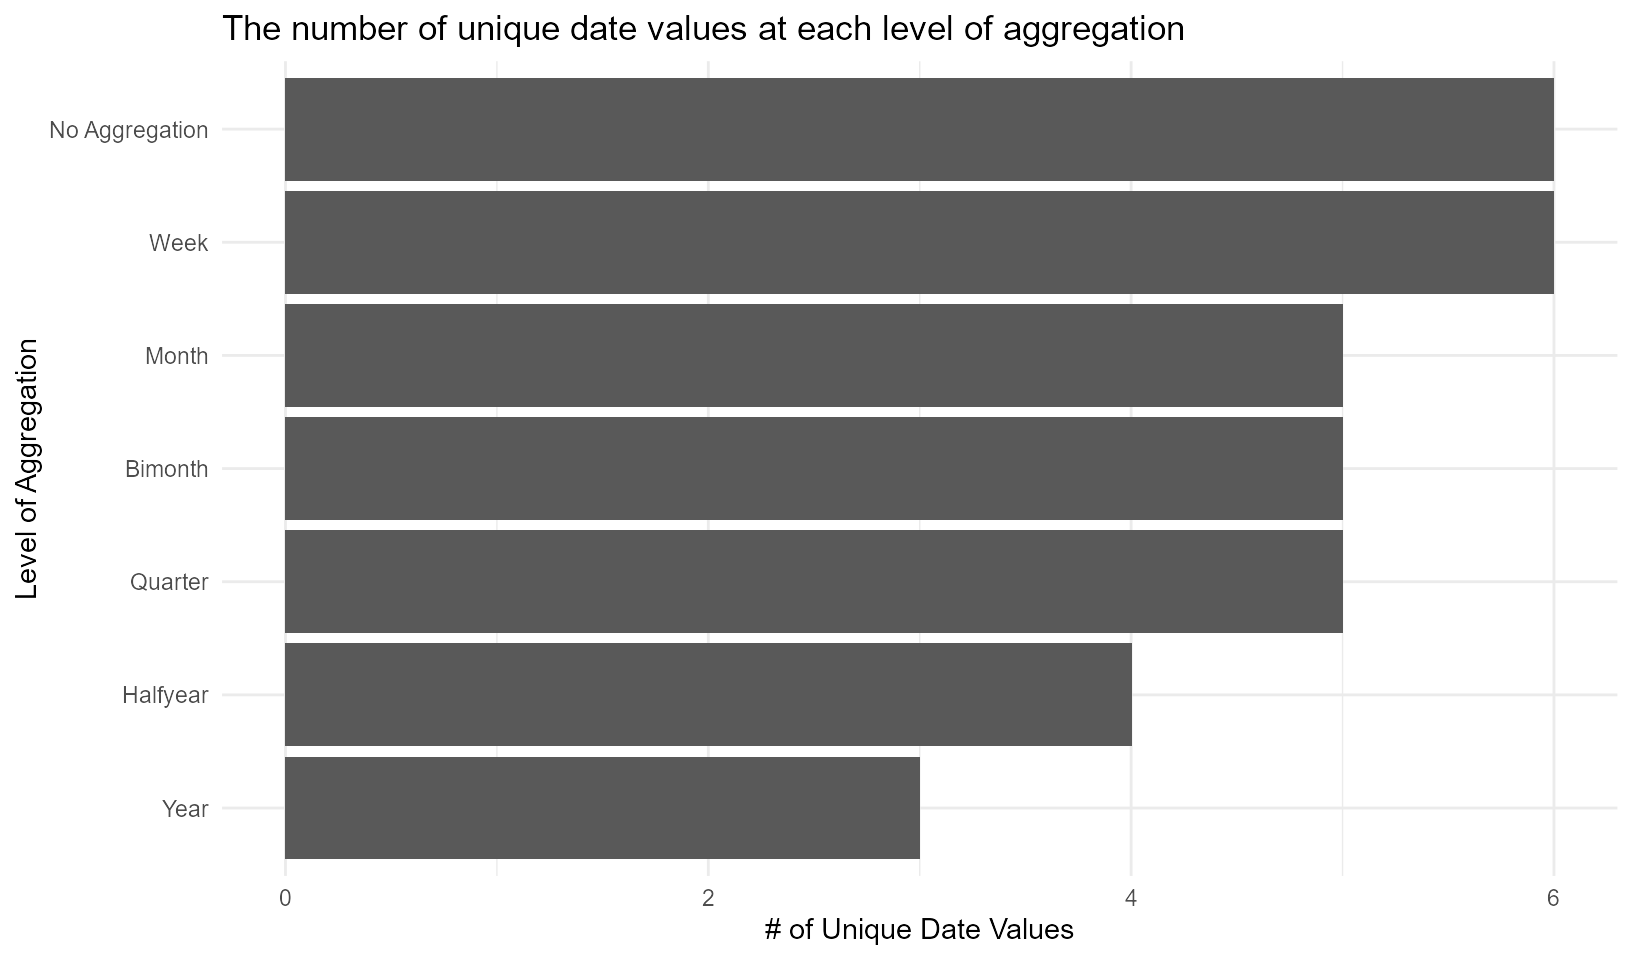
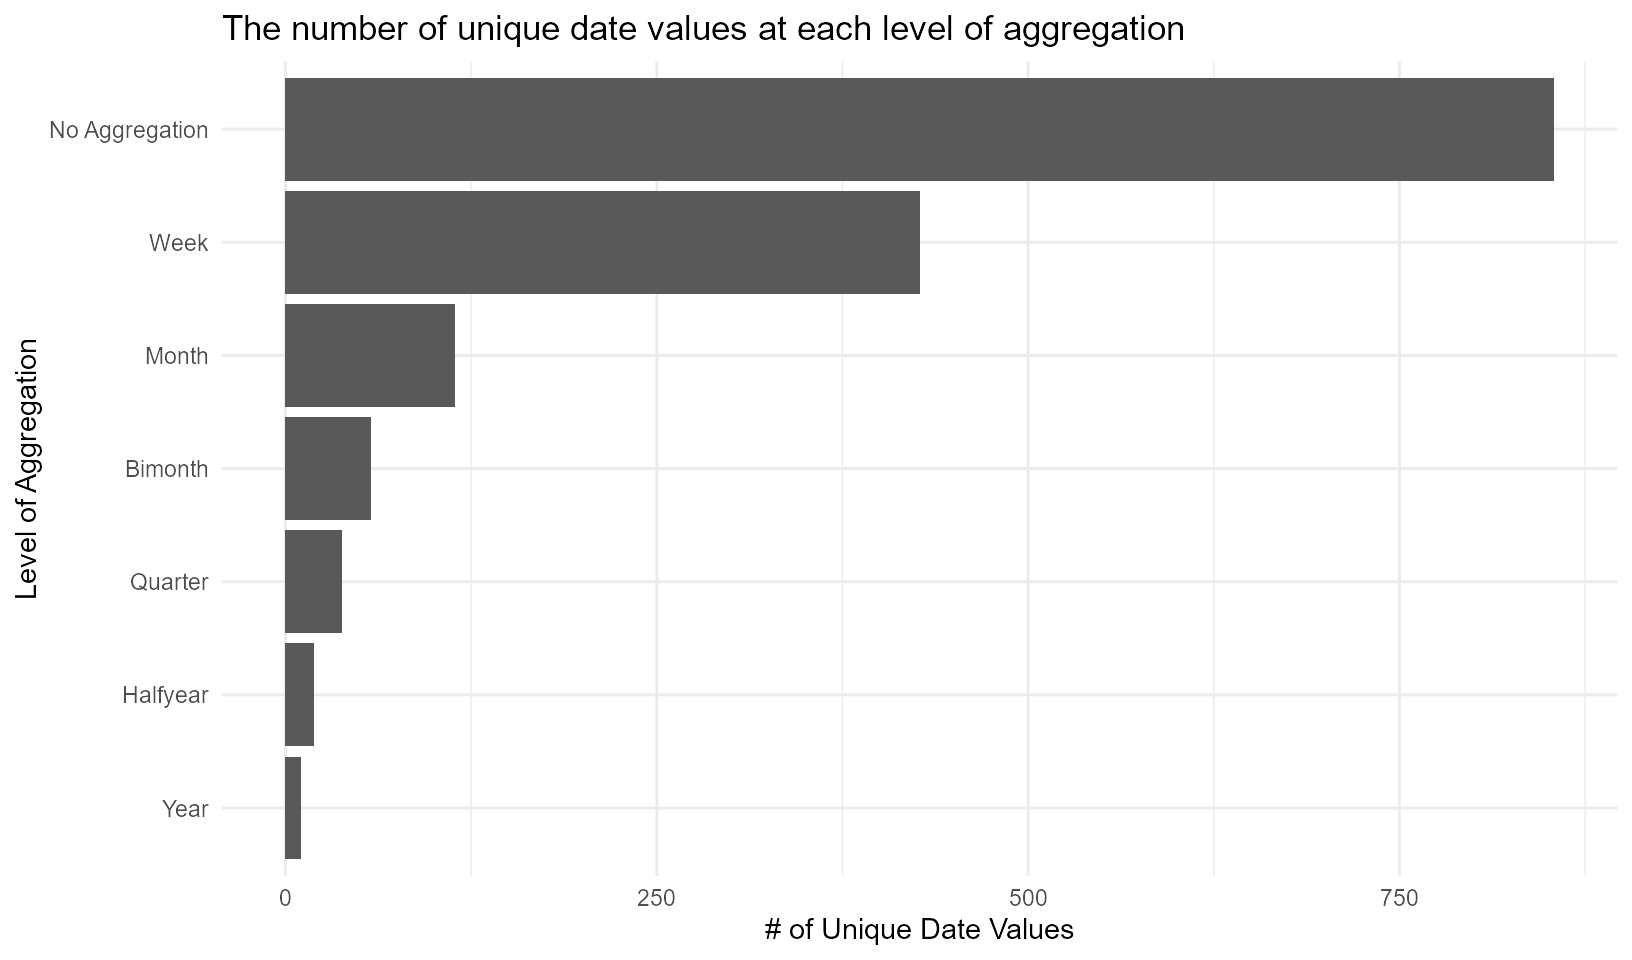
Work on documentation

diff --git a/docs/articles/visualizing_deidentification_decisions.html b/docs/articles/visualizing_deidentification_decisions.html
@@ -117,20 +117,23 @@
 <a href="#aggregating-dates" class="anchor"></a>Aggregating dates</h2>
 <p>In <code><a href="../reference/graph_aggregate_dates.html">graph_aggregate_dates()</a></code>, you input a vector of Dates (it must be in Date format) and it will produce a bar group showing how many unique values there are at every level of aggregation: the original dates with no aggregation, aggregated to the week, month, bimonth (every two months), quarter, halfyear (every 6 months), and year. This can be useful when trying to balance between having too precise dates (e.g. the exact date of a crime which may be easy to de-identify) and aggregating to the point of having too few unique dates.</p>
 <div class="sourceCode" id="cb2"><pre class="downlit">
-<span class="fu"><a href="../reference/graph_aggregate_dates.html">graph_aggregate_dates</a></span>(<span class="fu"><a href="https://rdrr.io/r/base/as.Date.html">as.Date</a></span>(<span class="fu"><a href="https://rdrr.io/r/base/c.html">c</a></span>(<span class="st">"2020-04-15"</span>, <span class="st">"2012-08-07"</span>, <span class="st">"1996-04-24"</span>, <span class="st">"2020-01-22"</span>,
-                                <span class="st">"2020-01-31"</span>, <span class="st">"2020-09-16"</span>)))
+<span class="fu"><a href="../reference/graph_aggregate_dates.html">graph_aggregate_dates</a></span>(<span class="kw">deidentify</span>::<span class="kw"><a href="../reference/initiations.html">initiations</a></span><span class="op">$</span><span class="kw">received_date</span>)
 </pre></div>
 <p><img src="visualizing_deidentification_decisions_files/figure-html/unnamed-chunk-2-1.png" width="816"></p>
 </div>
 <div id="grouping-rare-values" class="section level2">
 <h2 class="hasAnchor">
 <a href="#grouping-rare-values" class="anchor"></a>Grouping rare values</h2>
-<p>The second visualization function, <code><a href="../reference/graph_group_rare_values.html">graph_group_rare_values()</a></code> sees what happens when you exclude values from your data that are rarer than k% where k goes from 1% of the data to 99% of the data. For example, imagine that you have the following vector of victim ages: 18, 18, 18, 25, 25, 22, 22, 18, 22, 7. There are 10 numbers with 40% of the data being aged 18, 30% being aged 22, and 20% being aged 25. The final age, 7, only occurs once or 10% of the time. If you were looking to try to re-identify this data, it’d be easiest to do so for the victim who is aged 7 since there is only one of them and multiple people of other ages. So this function can replace rare values in your data (rare being less than the value you set to determine if it is rare or not) with NA or a string (such as “unknown” or “deidentified due to privacy” or anything else you’d like to write) to increase data privacy.</p>
+<p>The second visualization function, <code><a href="../reference/graph_group_rare_values.html">graph_group_rare_values()</a></code> sees what happens when you exclude values from your data that are rarer than k% where k goes from 1% of the data to 99% of the data. For example, imagine that you have the following vector of victim ages: 18, 18, 18, 25, 25, 22, 22, 18, 22, 7. There are 10 numbers with 40% of the data being aged 18, 30% being aged 22, and 20% being aged 25. The final age, 7, only occurs once or 10% of the time. If you were looking to try to re-identify this data, it’d be easiest to do so for the victim who is aged 7 since there is only one of them and multiple people of other ages. So this function can replace rare values in your data (rare being less than the value you set to determine if it is rare or not) with NA or a string (such as “unknown” or “deidentified due to privacy” or anything else you’d like to write) to increase data privacy. Please note that this may not actually improve privacy if you are only replacing a small number of groups with NA (or with a string) since that NA can still indicate which groups are removed. For example, if 0.5% of your data is “American Indian” (as, say a defendant race category) and you replace only that with NA, a user can still infer that NA means “American Indian.”</p>
 <p>To use this function, you input a vector of strings or numbers into <code><a href="../reference/graph_group_rare_values.html">graph_group_rare_values()</a></code> and it will produce a line graph showing what percent of the non-NA values are removed from the data when excluding any value less than k% of the data, from 1% through 99%. You can use this graph when deciding what limit to set when balancing privacy concerns with excluding too much unique data to be useful to users.</p>
 <div class="sourceCode" id="cb3"><pre class="downlit">
-<span class="fu"><a href="../reference/graph_group_rare_values.html">graph_group_rare_values</a></span>(<span class="kw">mtcars</span><span class="op">$</span><span class="kw">mpg</span>)
+<span class="fu"><a href="../reference/graph_group_rare_values.html">graph_group_rare_values</a></span>(<span class="kw">deidentify</span>::<span class="kw"><a href="../reference/initiations.html">initiations</a></span><span class="op">$</span><span class="kw">offense_category</span>)
 </pre></div>
 <p><img src="visualizing_deidentification_decisions_files/figure-html/unnamed-chunk-3-1.png" width="816"></p>
+<div class="sourceCode" id="cb4"><pre class="downlit">
+<span class="fu"><a href="../reference/graph_group_rare_values.html">graph_group_rare_values</a></span>(<span class="kw">deidentify</span>::<span class="kw"><a href="../reference/initiations.html">initiations</a></span><span class="op">$</span><span class="kw">offense_category</span>, percent_dropped = <span class="fl">TRUE</span>)
+</pre></div>
+<p><img src="visualizing_deidentification_decisions_files/figure-html/unnamed-chunk-4-1.png" width="816"></p>
 </div>
   </div>
 

diff --git a/docs/reference/initiations.html b/docs/reference/initiations.html
@@ -6,7 +6,7 @@
 <meta http-equiv="X-UA-Compatible" content="IE=edge">
 <meta name="viewport" content="width=device-width, initial-scale=1.0">
 
-<title>Function reference • deidentify</title>
+<title>Cook County Initiations Data — initiations • deidentify</title>
 
 <!-- favicons -->
 <link rel="icon" type="image/png" sizes="16x16" href="../favicon-16x16.png">
@@ -46,7 +46,8 @@
 
 
 
-<meta property="og:title" content="Function reference" />
+<meta property="og:title" content="Cook County Initiations Data — initiations" />
+<meta property="og:description" content="This is a sample of Cook County's Initiations data available on the Cook County Open Data Portal" />
 <meta property="og:image" content="/logo.png" />
 
 
@@ -66,7 +67,7 @@
   </head>
 
   <body data-spy="scroll" data-target="#toc">
-    <div class="container template-reference-index">
+    <div class="container template-reference-topic">
       <header>
       <div class="navbar navbar-default navbar-fixed-top" role="navigation">
   <div class="container">
@@ -137,97 +138,31 @@
       </header>
 
 <div class="row">
-  <div class="contents col-md-9">
+  <div class="col-md-9 contents">
     <div class="page-header">
-      <h1>Reference</h1>
+    <h1>Cook County Initiations Data</h1>
+    <small class="dont-index">Source: <a href='https://github.com/jacobkap/deidentify/blob/master/R/data.R'><code>R/data.R</code></a></small>
+    <div class="hidden name"><code>initiations.Rd</code></div>
     </div>
 
-    <table class="ref-index">
+    <div class="ref-description">
+    <p>This is a sample of Cook County's Initiations data available on the Cook County Open Data Portal</p>
+    </div>
 
-    <colgroup>
-      
-      <col class="alias" />
-      <col class="title" />
-    </colgroup>
+    <pre class="usage"><span class='kw'>initiations</span></pre>
 
-    <tbody>
-      <tr>
-        <th colspan="2">
-          <h2 id="section-all-functions" class="hasAnchor"><a href="#section-all-functions" class="anchor"></a>All functions</h2>
-          <p class="section-desc"></p>
-        </th>
-      </tr>
-      
-      
-    </tbody><tbody>
-      
-      
-      <tr>
-        
-        <td>
-          <p><code><a href="deidentify_choices_table.html">deidentify_choices_table()</a></code> </p>
-        </td>
-        <td><p>Make a data.frame showing either the outcome (k-score) of all possible de-identify choices or only those that meet a certain k-score threshold.</p></td>
-      </tr><tr>
-        
-        <td>
-          <p><code><a href="deidentify_data.html">deidentify_data()</a></code> </p>
-        </td>
-        <td><p>De-identify data through encrypting text columns, grouping rare values, and,
-aggregating numeric or date columns.</p></td>
-      </tr><tr>
-        
-        <td>
-          <p><code><a href="deidentify_text.html">deidentify_text()</a></code> </p>
-        </td>
-        <td><p>methods to deidentify different forms of data</p></td>
-      </tr><tr>
-        
-        <td>
-          <p><code><a href="gen_aes_key.html">gen_aes_key()</a></code> </p>
-        </td>
-        <td><p>Generate aes or libsodium key</p></td>
-      </tr><tr>
-        
-        <td>
-          <p><code><a href="gen_sodium_key.html">gen_sodium_key()</a></code> </p>
-        </td>
-        <td><p>Generate sodium key</p></td>
-      </tr><tr>
-        
-        <td>
-          <p><code><a href="graph_aggregate_dates.html">graph_aggregate_dates()</a></code> </p>
-        </td>
-        <td><p>Create a barplot showing the number of unique dates at each level of aggregation</p></td>
-      </tr><tr>
-        
-        <td>
-          <p><code><a href="graph_group_rare_values.html">graph_group_rare_values()</a></code> </p>
-        </td>
-        <td><p>Graph effect of dropping "rare" values from a vector of data</p></td>
-      </tr><tr>
-        
-        <td>
-          <p><code><a href="initiations.html">initiations</a></code> </p>
-        </td>
-        <td><p>Cook County Initiations Data</p></td>
-      </tr><tr>
-        
-        <td>
-          <p><code><a href="make_deidentify_choices_reported.html">make_deidentify_choices_reported()</a></code> </p>
-        </td>
-        <td><p>Produce a PDF showing tables of possible de-identification choices, choices that meet a set parameter, and graphs of each decision for individual variables.</p></td>
-      </tr><tr>
-        
-        <td>
-          <p><code><a href="make_k_score.html">make_k_score()</a></code> </p>
-        </td>
-        <td><p>Make k score out of de-identified data</p></td>
-      </tr>
-    </tbody>
-    </table>
+
+    <h2 class="hasAnchor" id="format"><a class="anchor" href="#format"></a>Format</h2>
+
+    <p>A tibble with 1000 rows and 38 variable</p><dl>
+for in depth definitions, look at https://datacatalog.cookcountyil.gov/Courts/Initiation/7mck-ehwz
+</dl>
+
+    <h2 class="hasAnchor" id="source"><a class="anchor" href="#source"></a>Source</h2>
+
+    <p><a href='https://datacatalog.cookcountyil.gov/Courts/Initiation/7mck-ehwz'>https://datacatalog.cookcountyil.gov/Courts/Initiation/7mck-ehwz</a></p>
+
   </div>
-
   <div class="col-md-3 hidden-xs hidden-sm" id="pkgdown-sidebar">
     <nav id="toc" data-toggle="toc" class="sticky-top">
       <h2 data-toc-skip>Contents</h2>

diff --git a/docs/reference/deidentify_text.html b/docs/reference/deidentify_text.html
@@ -6,7 +6,7 @@
 <meta http-equiv="X-UA-Compatible" content="IE=edge">
 <meta name="viewport" content="width=device-width, initial-scale=1.0">
 
-<title>methods to de-identify different forms of data — deidentify_text • deidentify</title>
+<title>methods to deidentify different forms of data — deidentify_text • deidentify</title>
 
 <!-- favicons -->
 <link rel="icon" type="image/png" sizes="16x16" href="../favicon-16x16.png">
@@ -46,8 +46,12 @@
 
 
 
-<meta property="og:title" content="methods to de-identify different forms of data — deidentify_text" />
-<meta property="og:description" content="methods to de-identify different forms of data" />
+<meta property="og:title" content="methods to deidentify different forms of data — deidentify_text" />
+<meta property="og:description" content="The deidentify_text method offers a flexible approach to encryption offering the user the option to encrypt text
+columns using either openssl or sodium. The encryption path chosen depends on the encryption key generated by
+the user. For example, if a user generates an aes_key, and passes it to deidentify_text, aes encryption will be
+automatically applied. The function will return a dataframe with the an encrypt_id suffix added to the end of the
+column name. Thus, a user will have to actively remove the unencrypted columns manually." />
 <meta property="og:image" content="/logo.png" />
 
 
@@ -140,13 +144,17 @@
 <div class="row">
   <div class="col-md-9 contents">
     <div class="page-header">
-    <h1>methods to de-identify different forms of data</h1>
+    <h1>methods to deidentify different forms of data</h1>
     <small class="dont-index">Source: <a href='https://github.com/jacobkap/deidentify/blob/master/R/deidentify_methods.R'><code>R/deidentify_methods.R</code></a></small>
     <div class="hidden name"><code>deidentify_text.Rd</code></div>
     </div>
 
     <div class="ref-description">
-    <p>methods to de-identify different forms of data</p>
+    <p>The deidentify_text method offers a flexible approach to encryption offering the user the option to encrypt text
+columns using either openssl or sodium. The encryption path chosen depends on the encryption key generated by
+the user. For example, if a user generates an aes_key, and passes it to deidentify_text, aes encryption will be
+automatically applied. The function will return a dataframe with the an encrypt_id suffix added to the end of the
+column name. Thus, a user will have to actively remove the unencrypted columns manually.</p>
     </div>
 
     <pre class="usage"><span class='fu'>deidentify_text</span>(<span class='kw'>.data</span>, <span class='kw'>cols_to_encrypt</span>, key = <span class='kw'>NULL</span>)</pre>
@@ -156,7 +164,7 @@
     <colgroup><col class="name" /><col class="desc" /></colgroup>
     <tr>
       <th>.data</th>
-      <td><p>a data frame with columns to encrypt</p></td>
+      <td><p>a data frame</p></td>
     </tr>
     <tr>
       <th>cols_to_encrypt</th>
@@ -164,7 +172,7 @@
     </tr>
     <tr>
       <th>key</th>
-      <td><p>A cyphr key generated from the <code>cyphr</code> package</p></td>
+      <td><p>A cyphr key generated from the cyphr package</p></td>
     </tr>
     </table>
 
@@ -174,7 +182,8 @@
 
     <h2 class="hasAnchor" id="examples"><a class="anchor" href="#examples"></a>Examples</h2>
     <pre class="examples"><div class='input'><span class='co'>if</span> (<span class='fl'>FALSE</span>) {
-<span class='fu'>deidentify_text</span>(<span class='kw'>mtcars</span>, <span class='st'>"mpg"</span>)
+<span class='kw'>aes_key</span> <span class='op'>&lt;-</span> <span class='fu'><a href='gen_aes_key.html'>gen_aes_key</a></span>(<span class='fl'>12</span>)
+<span class='fu'>deidentify_text</span>(<span class='kw'>initiations</span>,<span class='st'>"case_participant_id"</span>,<span class='kw'>aes_key</span>)
 }
 </div></pre>
   </div>

diff --git a/docs/reference/graph_group_rare_values.html b/docs/reference/graph_group_rare_values.html
@@ -149,7 +149,7 @@
     <p>Makes a graph showing what either the number of unique values or the percent of values are dropped when excluding values that are less common than k% of the data for every value of k from 1%-100%.</p>
     </div>
 
-    <pre class="usage"><span class='fu'>graph_group_rare_values</span>(<span class='kw'>data</span>, show_unique_values = <span class='fl'>TRUE</span>)</pre>
+    <pre class="usage"><span class='fu'>graph_group_rare_values</span>(<span class='kw'>data</span>, percent_dropped = <span class='fl'>FALSE</span>)</pre>
 
     <h2 class="hasAnchor" id="arguments"><a class="anchor" href="#arguments"></a>Arguments</h2>
     <table class="ref-arguments">
@@ -160,7 +160,7 @@
     </tr>
     <tr>
       <th>show_unique_values</th>
-      <td><p>If TRUE (default), will show the number of unique values in the data after excluding values that are rarer than k% (from 1-99%). Else, will show the percent of the data dropped after excluding values that are rarer than k% (from 1-99%)</p></td>
+      <td><p>If FALSE (default), will show the number of unique values in the data after excluding values that are rarer than k% (from 1-99%). Else, will show the percent of the data dropped after excluding values that are rarer than k% (from 1-99%)</p></td>
     </tr>
     </table>
 
@@ -171,7 +171,7 @@
     <h2 class="hasAnchor" id="examples"><a class="anchor" href="#examples"></a>Examples</h2>
     <pre class="examples"><div class='input'><span class='fu'>graph_group_rare_values</span>(<span class='kw'>mtcars</span><span class='op'>$</span><span class='kw'>mpg</span>)
 </div><div class='img'><img src='graph_group_rare_values-1.png' alt='' width='700' height='433' /></div><div class='input'><span class='fu'>graph_group_rare_values</span>(<span class='kw'>mtcars</span><span class='op'>$</span><span class='kw'>mpg</span>, show_unique_values = <span class='fl'>FALSE</span>)
-</div><div class='img'><img src='graph_group_rare_values-2.png' alt='' width='700' height='433' /></div></pre>
+</div><div class='output co'>#&gt; <span class='error'>Error in graph_group_rare_values(mtcars$mpg, show_unique_values = FALSE): unused argument (show_unique_values = FALSE)</span></div></pre>
   </div>
   <div class="col-md-3 hidden-xs hidden-sm" id="pkgdown-sidebar">
     <nav id="toc" data-toggle="toc" class="sticky-top">
